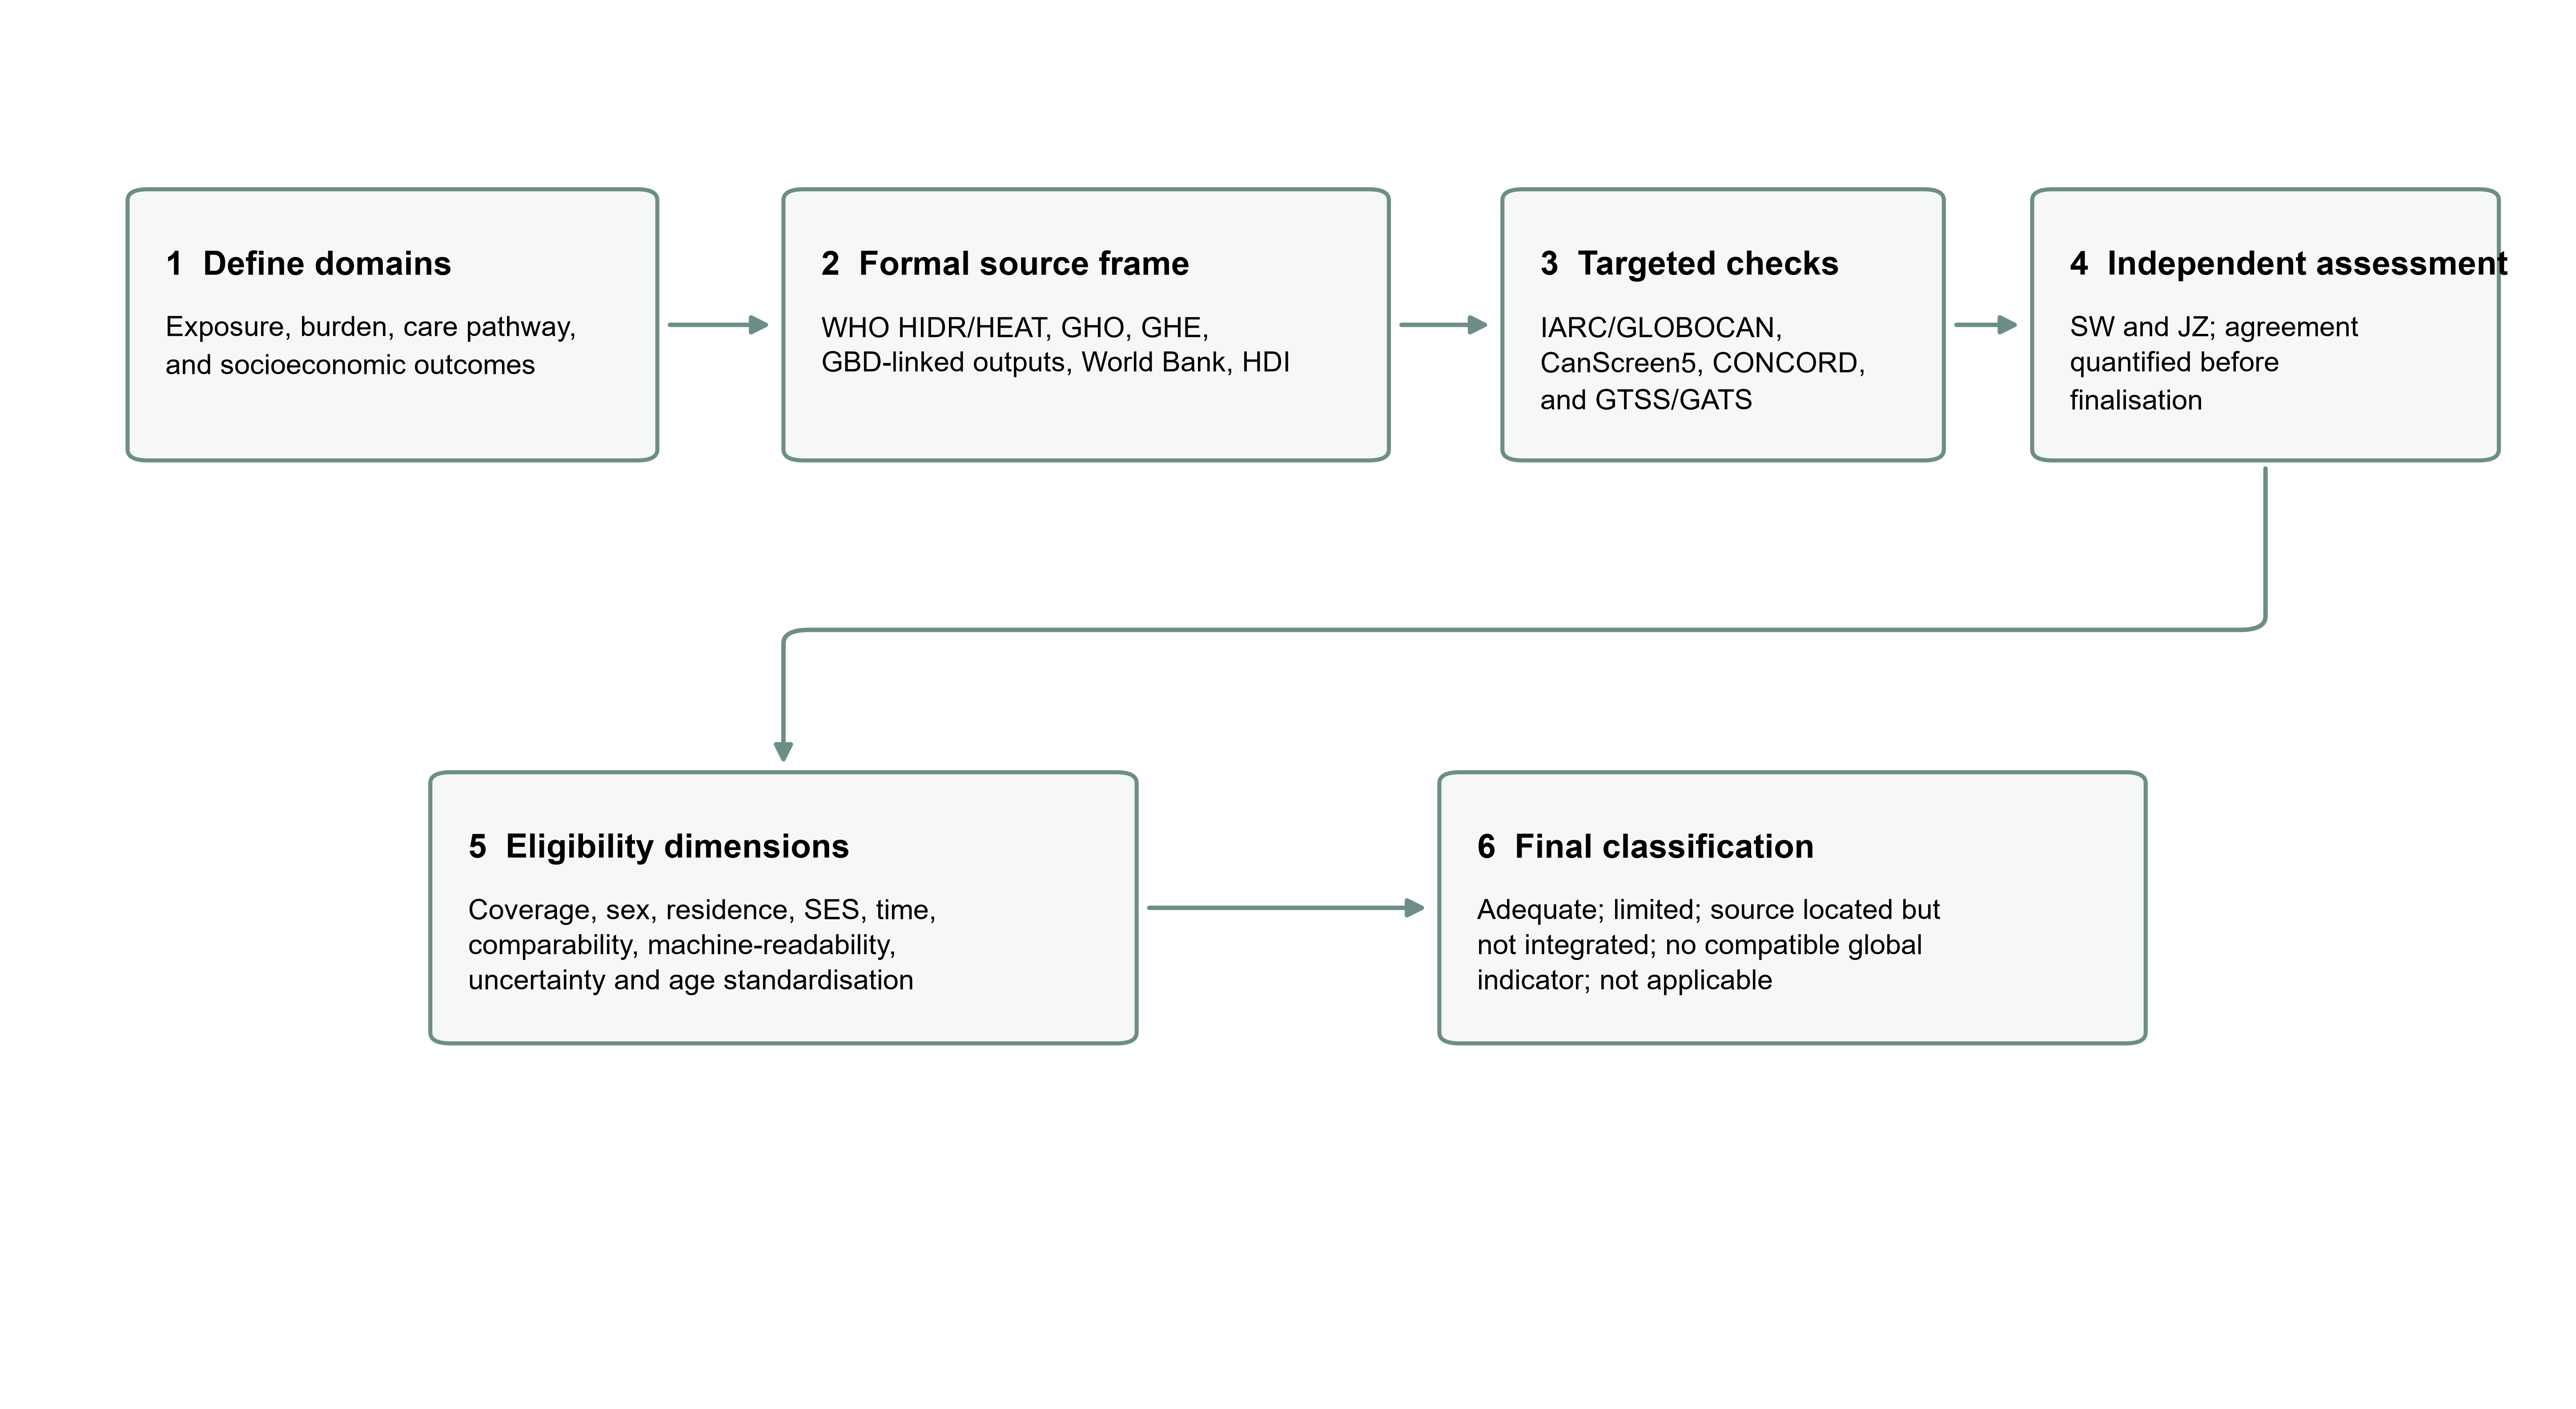
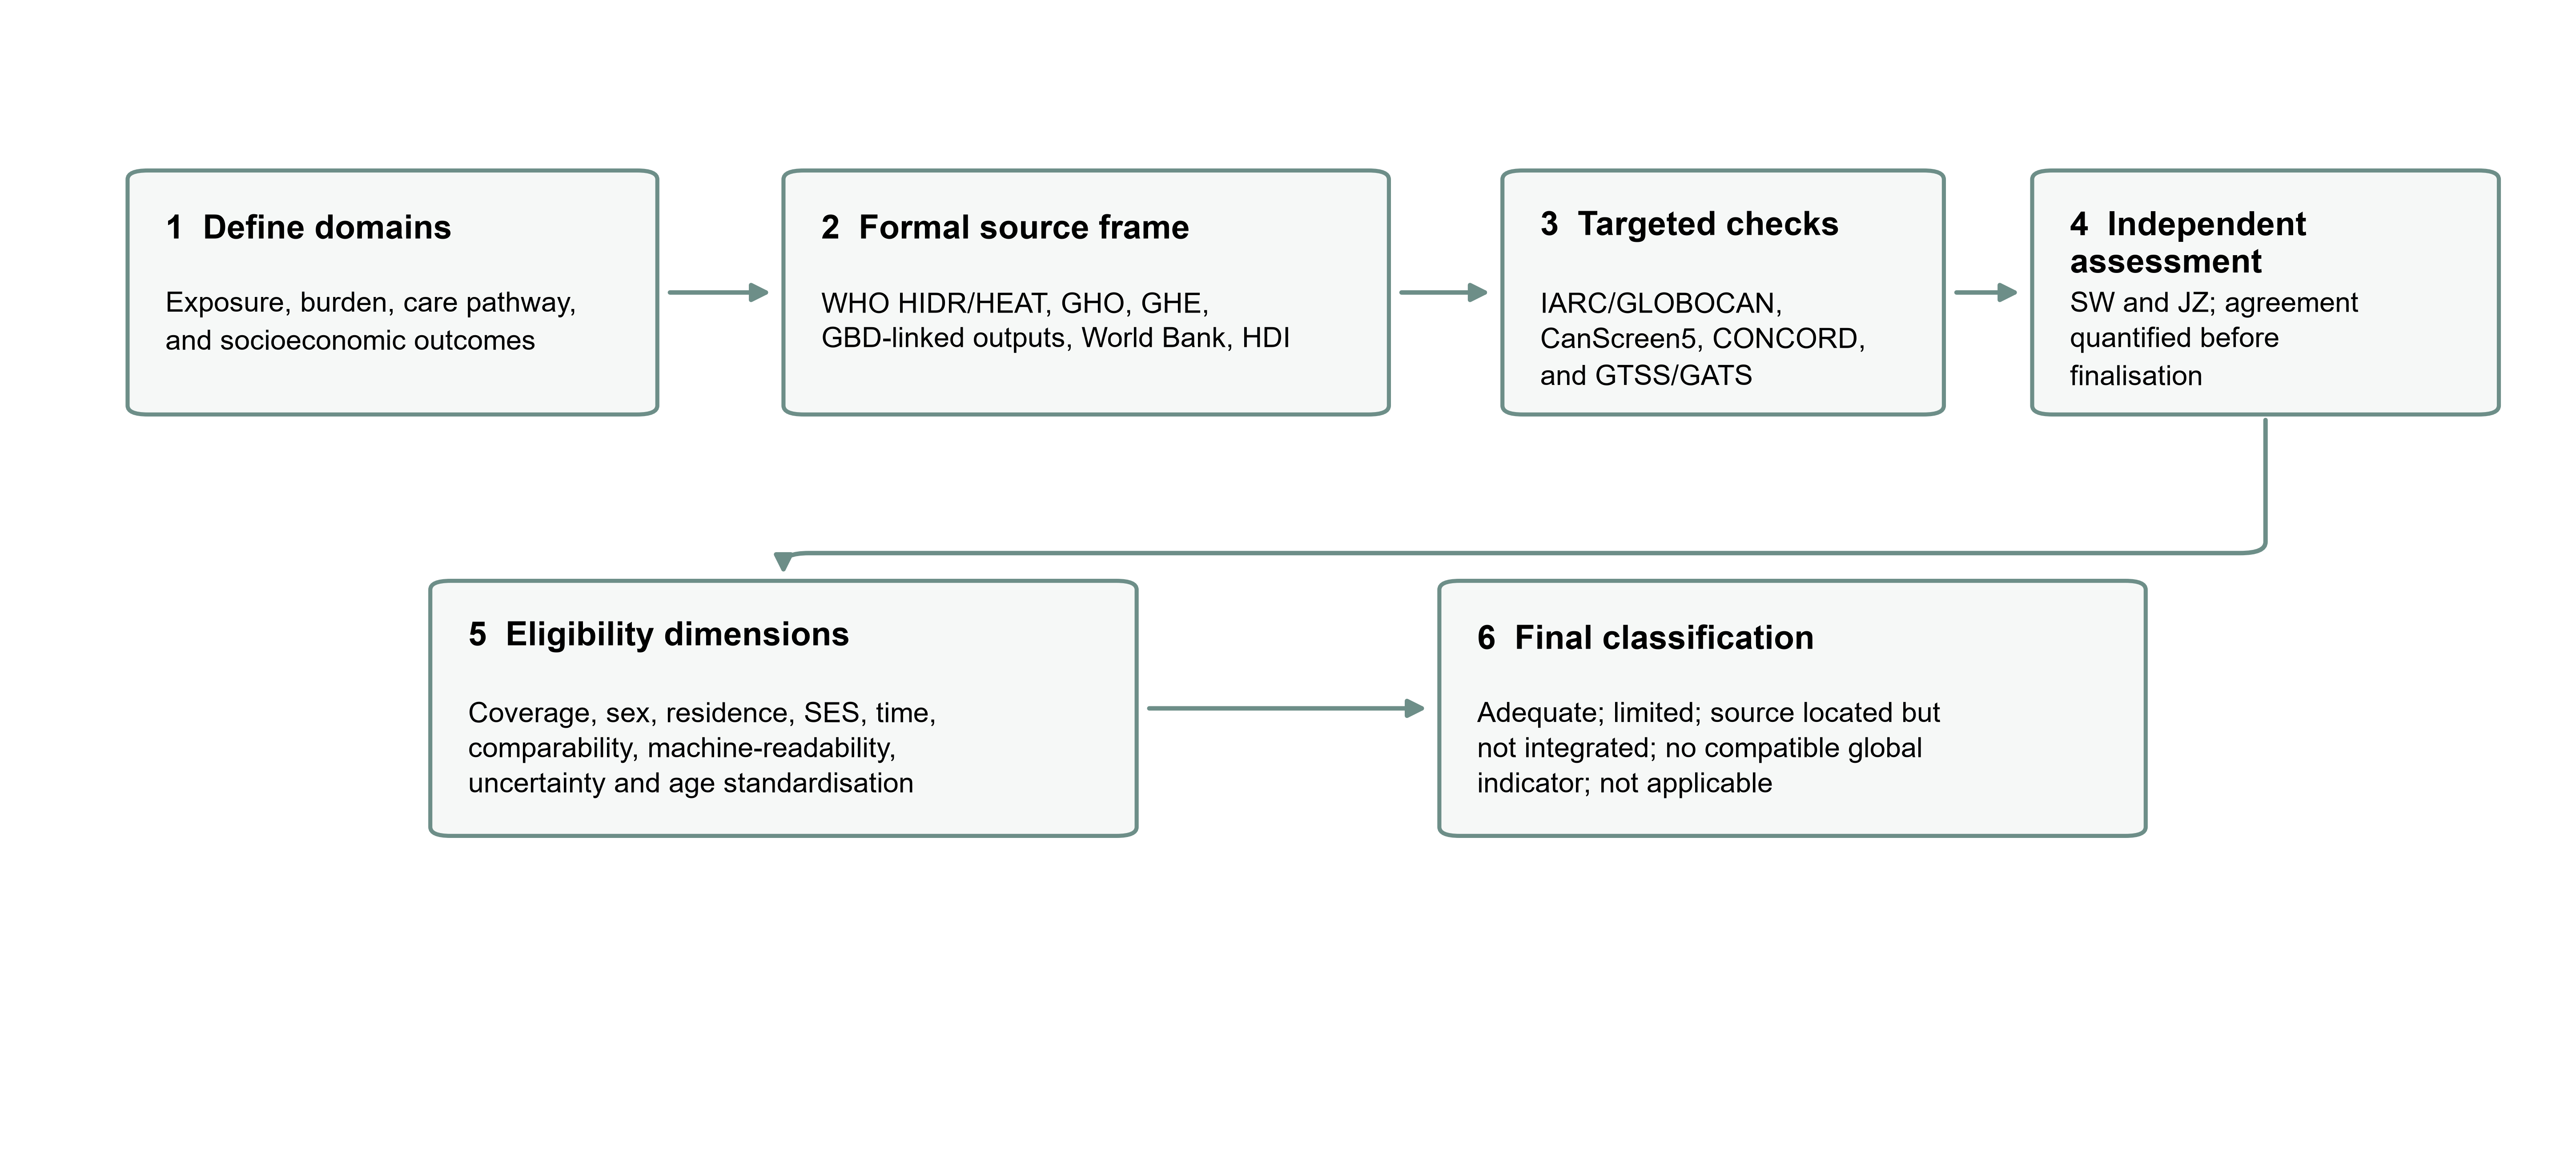
Tighten Supplementary Figure S1 layout

diff --git a/code/analysis_pipeline.py b/code/analysis_pipeline.py
@@ -1308,22 +1308,22 @@ def plot_source_workflow(fig: plt.Figure) -> None:
     ax = fig.add_subplot(111)
     ax.axis("off")
     boxes = [
-        (.04, .68, .21, .20, "1  Define domains", "Exposure, burden, care pathway,\nand socioeconomic outcomes"),
-        (.30, .68, .24, .20, "2  Formal source frame", "WHO HIDR/HEAT, GHO, GHE,\nGBD-linked outputs, World Bank, HDI"),
-        (.585, .68, .175, .20, "3  Targeted checks", "IARC/GLOBOCAN,\nCanScreen5, CONCORD,\nand GTSS/GATS"),
-        (.795, .68, .185, .20, "4  Independent assessment", "SW and JZ; agreement\nquantified before\nfinalisation"),
-        (.16, .25, .28, .20, "5  Eligibility dimensions", "Coverage, sex, residence, SES, time,\ncomparability, machine-readability,\nuncertainty and age standardisation"),
-        (.56, .25, .28, .20, "6  Final classification", "Adequate; limited; source located but\nnot integrated; no compatible global\nindicator; not applicable"),
+        (.04, .65, .21, .22, "1  Define domains", "Exposure, burden, care pathway,\nand socioeconomic outcomes"),
+        (.30, .65, .24, .22, "2  Formal source frame", "WHO HIDR/HEAT, GHO, GHE,\nGBD-linked outputs, World Bank, HDI"),
+        (.585, .65, .175, .22, "3  Targeted checks", "IARC/GLOBOCAN,\nCanScreen5, CONCORD,\nand GTSS/GATS"),
+        (.795, .65, .185, .22, "4  Independent\nassessment", "SW and JZ; agreement\nquantified before\nfinalisation"),
+        (.16, .27, .28, .23, "5  Eligibility dimensions", "Coverage, sex, residence, SES, time,\ncomparability, machine-readability,\nuncertainty and age standardisation"),
+        (.56, .27, .28, .23, "6  Final classification", "Adequate; limited; source located but\nnot integrated; no compatible global\nindicator; not applicable"),
     ]
 
     # Route connectors through the whitespace between boxes. Drawing them first
     # lets the box faces mask any sub-pixel overlap at the attachment points.
     connector = "#6D8E88"
     straight_arrows = [
-        ((.255, .78), (.295, .78)),
-        ((.545, .78), (.580, .78)),
-        ((.765, .78), (.790, .78)),
-        ((.445, .35), (.555, .35)),
+        ((.255, .76), (.295, .76)),
+        ((.545, .76), (.580, .76)),
+        ((.765, .76), (.790, .76)),
+        ((.445, .385), (.555, .385)),
     ]
     for start, end in straight_arrows:
         ax.annotate(
@@ -1344,14 +1344,14 @@ def plot_source_workflow(fig: plt.Figure) -> None:
 
     elbow = mpl.path.Path(
         [
-            (.8875, .674),
-            (.8875, .565),
-            (.8875, .555),
-            (.8775, .555),
-            (.310, .555),
-            (.300, .555),
-            (.300, .545),
-            (.300, .456),
+            (.8875, .645),
+            (.8875, .535),
+            (.8875, .525),
+            (.8775, .525),
+            (.310, .525),
+            (.300, .525),
+            (.300, .515),
+            (.300, .506),
         ],
         [
             mpl.path.Path.MOVETO,
@@ -1390,8 +1390,8 @@ def plot_source_workflow(fig: plt.Figure) -> None:
                 zorder=2,
             )
         )
-        ax.text(x + .015, y + h - .045, title, transform=ax.transAxes, fontsize=9, fontweight="bold", va="top", zorder=3)
-        ax.text(x + .015, y + h - .09, body, transform=ax.transAxes, fontsize=7.5, va="top", linespacing=1.35, zorder=3)
+        ax.text(x + .015, y + h - .035, title, transform=ax.transAxes, fontsize=9, fontweight="bold", va="top", linespacing=1.1, zorder=3)
+        ax.text(x + .015, y + h - .105, body, transform=ax.transAxes, fontsize=7.5, va="top", linespacing=1.35, zorder=3)
 
 
 def plot_missingness_heatmaps(fig: plt.Figure, country: pd.DataFrame) -> None:
@@ -1558,7 +1558,7 @@ def save_supplementary_figures(country: pd.DataFrame, model_stats: dict[str, obj
                                corr: pd.DataFrame, window: pd.DataFrame,
                                robust: pd.DataFrame) -> list[Path]:
     apply_figure_style(); SUPP_FIG_DIR.mkdir(parents=True, exist_ok=True); out=[]
-    fig=plt.figure(figsize=(12.2,6.6)); plot_source_workflow(fig); base=SUPP_FIG_DIR/"Figure_S1_source_identification_and_audit_workflow"; save_pub(fig,base);plt.close(fig);out.append(base.with_suffix('.png'))
+    fig=plt.figure(figsize=(12.2,5.4)); plot_source_workflow(fig); base=SUPP_FIG_DIR/"Figure_S1_source_identification_and_audit_workflow"; save_pub(fig,base);plt.close(fig);out.append(base.with_suffix('.png'))
     fig=plt.figure(figsize=(12.5,5.5)); plot_missingness_heatmaps(fig,country); base=SUPP_FIG_DIR/"Figure_S2_missingness_by_income_and_WHO_region";save_pub(fig,base);plt.close(fig);out.append(base.with_suffix('.png'))
     fig=plt.figure(figsize=(9.5,5.6));plot_audit_status_counts(fig.add_subplot(111));base=SUPP_FIG_DIR/"Figure_S3_audit_classification_counts";save_pub(fig,base);plt.close(fig);out.append(base.with_suffix('.png'))
     fig=plt.figure(figsize=(12.0,8.0));plot_region_distributions(fig,country);base=SUPP_FIG_DIR/"Figure_S4_exposure_and_incidence_by_WHO_region";save_pub(fig,base);plt.close(fig);out.append(base.with_suffix('.png'))